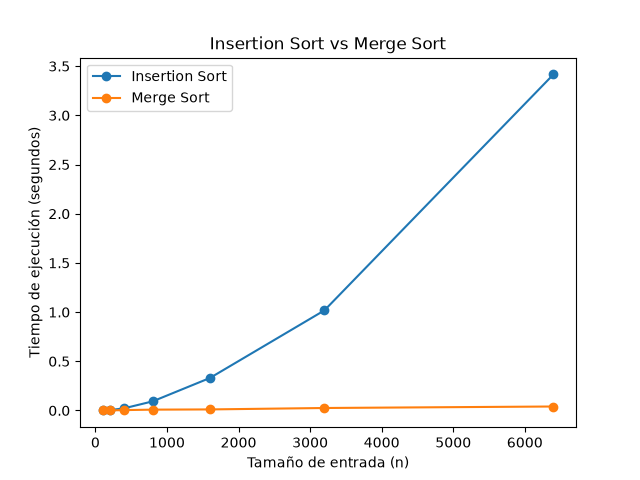
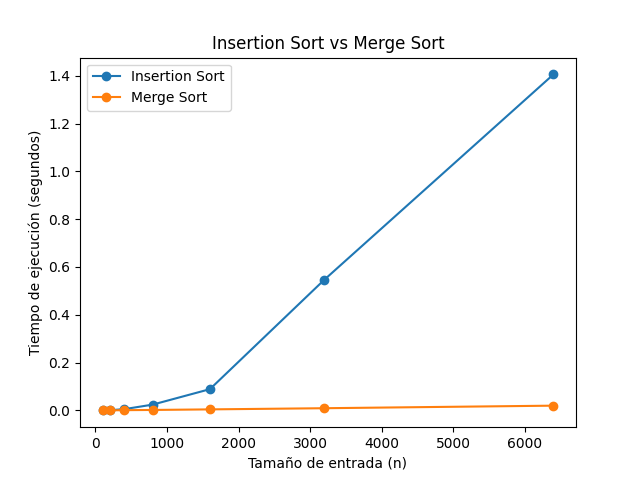
Corrige conteo de comparaciones en merge sort

diff --git a/lab1-fundamentos-complejidad-recurrencias/algoritmos.py b/lab1-fundamentos-complejidad-recurrencias/algoritmos.py
@@ -1,14 +1,16 @@
-def insertion_sort(datos: list[int]) -> tuple[list[int], int]:
-    """Ordena una lista de indices de riesgo con el metodo de insercion.
 
-    No modifica la lista recibida: trabaja sobre una copia.
+"""Algoritmos de ordenamiento para los índices de riesgo de Tamiza."""
+
+
+def insertion_sort(datos: list[int]) -> tuple[list[int], int]:
+    """Ordena índices de riesgo de mayor a menor mediante inserción.
 
     Args:
-        datos: lista de indices de riesgo a ordenar.
+        datos: Lista de índices de riesgo que se van a ordenar.
 
     Returns:
-        Una tupla con la lista ordenada y el numero total de
-        comparaciones entre elementos realizadas durante el proceso.
+        Una tupla con la lista ordenada y el número de comparaciones
+        entre elementos realizadas durante el proceso.
     """
     lista = datos.copy()
     comparaciones = 0
@@ -30,34 +32,59 @@ def insertion_sort(datos: list[int]) -> tuple[list[int], int]:
 
     return lista, comparaciones
 
-def merge_sort(datos: list[int]) -> list[int]:
-    """Ordena una lista de menor a mayor usando merge sort.
+
+def merge_sort(datos: list[int]) -> tuple[list[int], int]:
+    """Ordena índices de riesgo de mayor a menor mediante Merge Sort.
 
     Args:
-        datos: lista de datos que se va a ordenar.
+        datos: Lista de índices de riesgo que se van a ordenar.
 
     Returns:
-        Una nueva lista con los datos ordenados.
+        Una tupla con la lista ordenada y el número total de
+        comparaciones entre elementos realizadas.
     """
     if len(datos) <= 1:
-        return datos
+        return datos.copy(), 0
 
     mitad = len(datos) // 2
 
-    izquierda = merge_sort(datos[:mitad])
-    derecha = merge_sort(datos[mitad:])
+    izquierda, comparaciones_izquierda = merge_sort(datos[:mitad])
+    derecha, comparaciones_derecha = merge_sort(datos[mitad:])
 
-    return merge(izquierda, derecha)
+    resultado, comparaciones_merge = merge(izquierda, derecha)
+
+    comparaciones_totales = (
+        comparaciones_izquierda
+        + comparaciones_derecha
+        + comparaciones_merge
+    )
+
+    return resultado, comparaciones_totales
 
 
-def merge(izquierda: list[int], derecha: list[int]) -> list[int]:
-    """Combina dos listas ordenadas en una sola lista ordenada."""
+def merge(
+    izquierda: list[int],
+    derecha: list[int],
+) -> tuple[list[int], int]:
+    """Combina dos listas ordenadas de mayor a menor.
+
+    Args:
+        izquierda: Primera lista ordenada de mayor a menor.
+        derecha: Segunda lista ordenada de mayor a menor.
+
+    Returns:
+        Una tupla con la lista combinada y el número de comparaciones
+        entre elementos de ambas listas.
+    """
     resultado = []
+    comparaciones = 0
 
     i = 0
     j = 0
 
     while i < len(izquierda) and j < len(derecha):
+        comparaciones += 1
+
         if izquierda[i] >= derecha[j]:
             resultado.append(izquierda[i])
             i += 1
@@ -73,4 +100,4 @@ def merge(izquierda: list[int], derecha: list[int]) -> list[int]:
         resultado.append(derecha[j])
         j += 1
 
-    return resultado
+    return resultado, comparaciones

diff --git a/lab1-fundamentos-complejidad-recurrencias/parte4_complejidad.py b/lab1-fundamentos-complejidad-recurrencias/parte4_complejidad.py
@@ -19,15 +19,17 @@ def medir_insertion_sort(datos: list[int]) -> float:
     return fin - inicio
 
 
+
 def medir_merge_sort(datos: list[int]) -> float:
-    """Mide el tiempo de merge sort."""
+    """Mide el tiempo de ejecución de Merge Sort."""
     inicio = time.perf_counter()
 
-    merge_sort(datos)
+    _, comparaciones = merge_sort(datos)
 
     fin = time.perf_counter()
 
     return fin - inicio
+
 
 
 def main() -> None:
@@ -73,10 +75,8 @@ def main() -> None:
     plt.ylabel("Tiempo de ejecución (segundos)")
     plt.legend()
 
-    plt.savefig(
-        "lab1-fundamentos-complejidad-recurrencias/"
-        "graficas/parte4_tiempo.png"
-    )
+    plt.savefig("graficas/parte4_tiempo.png")
+    
 
     plt.close()
 
